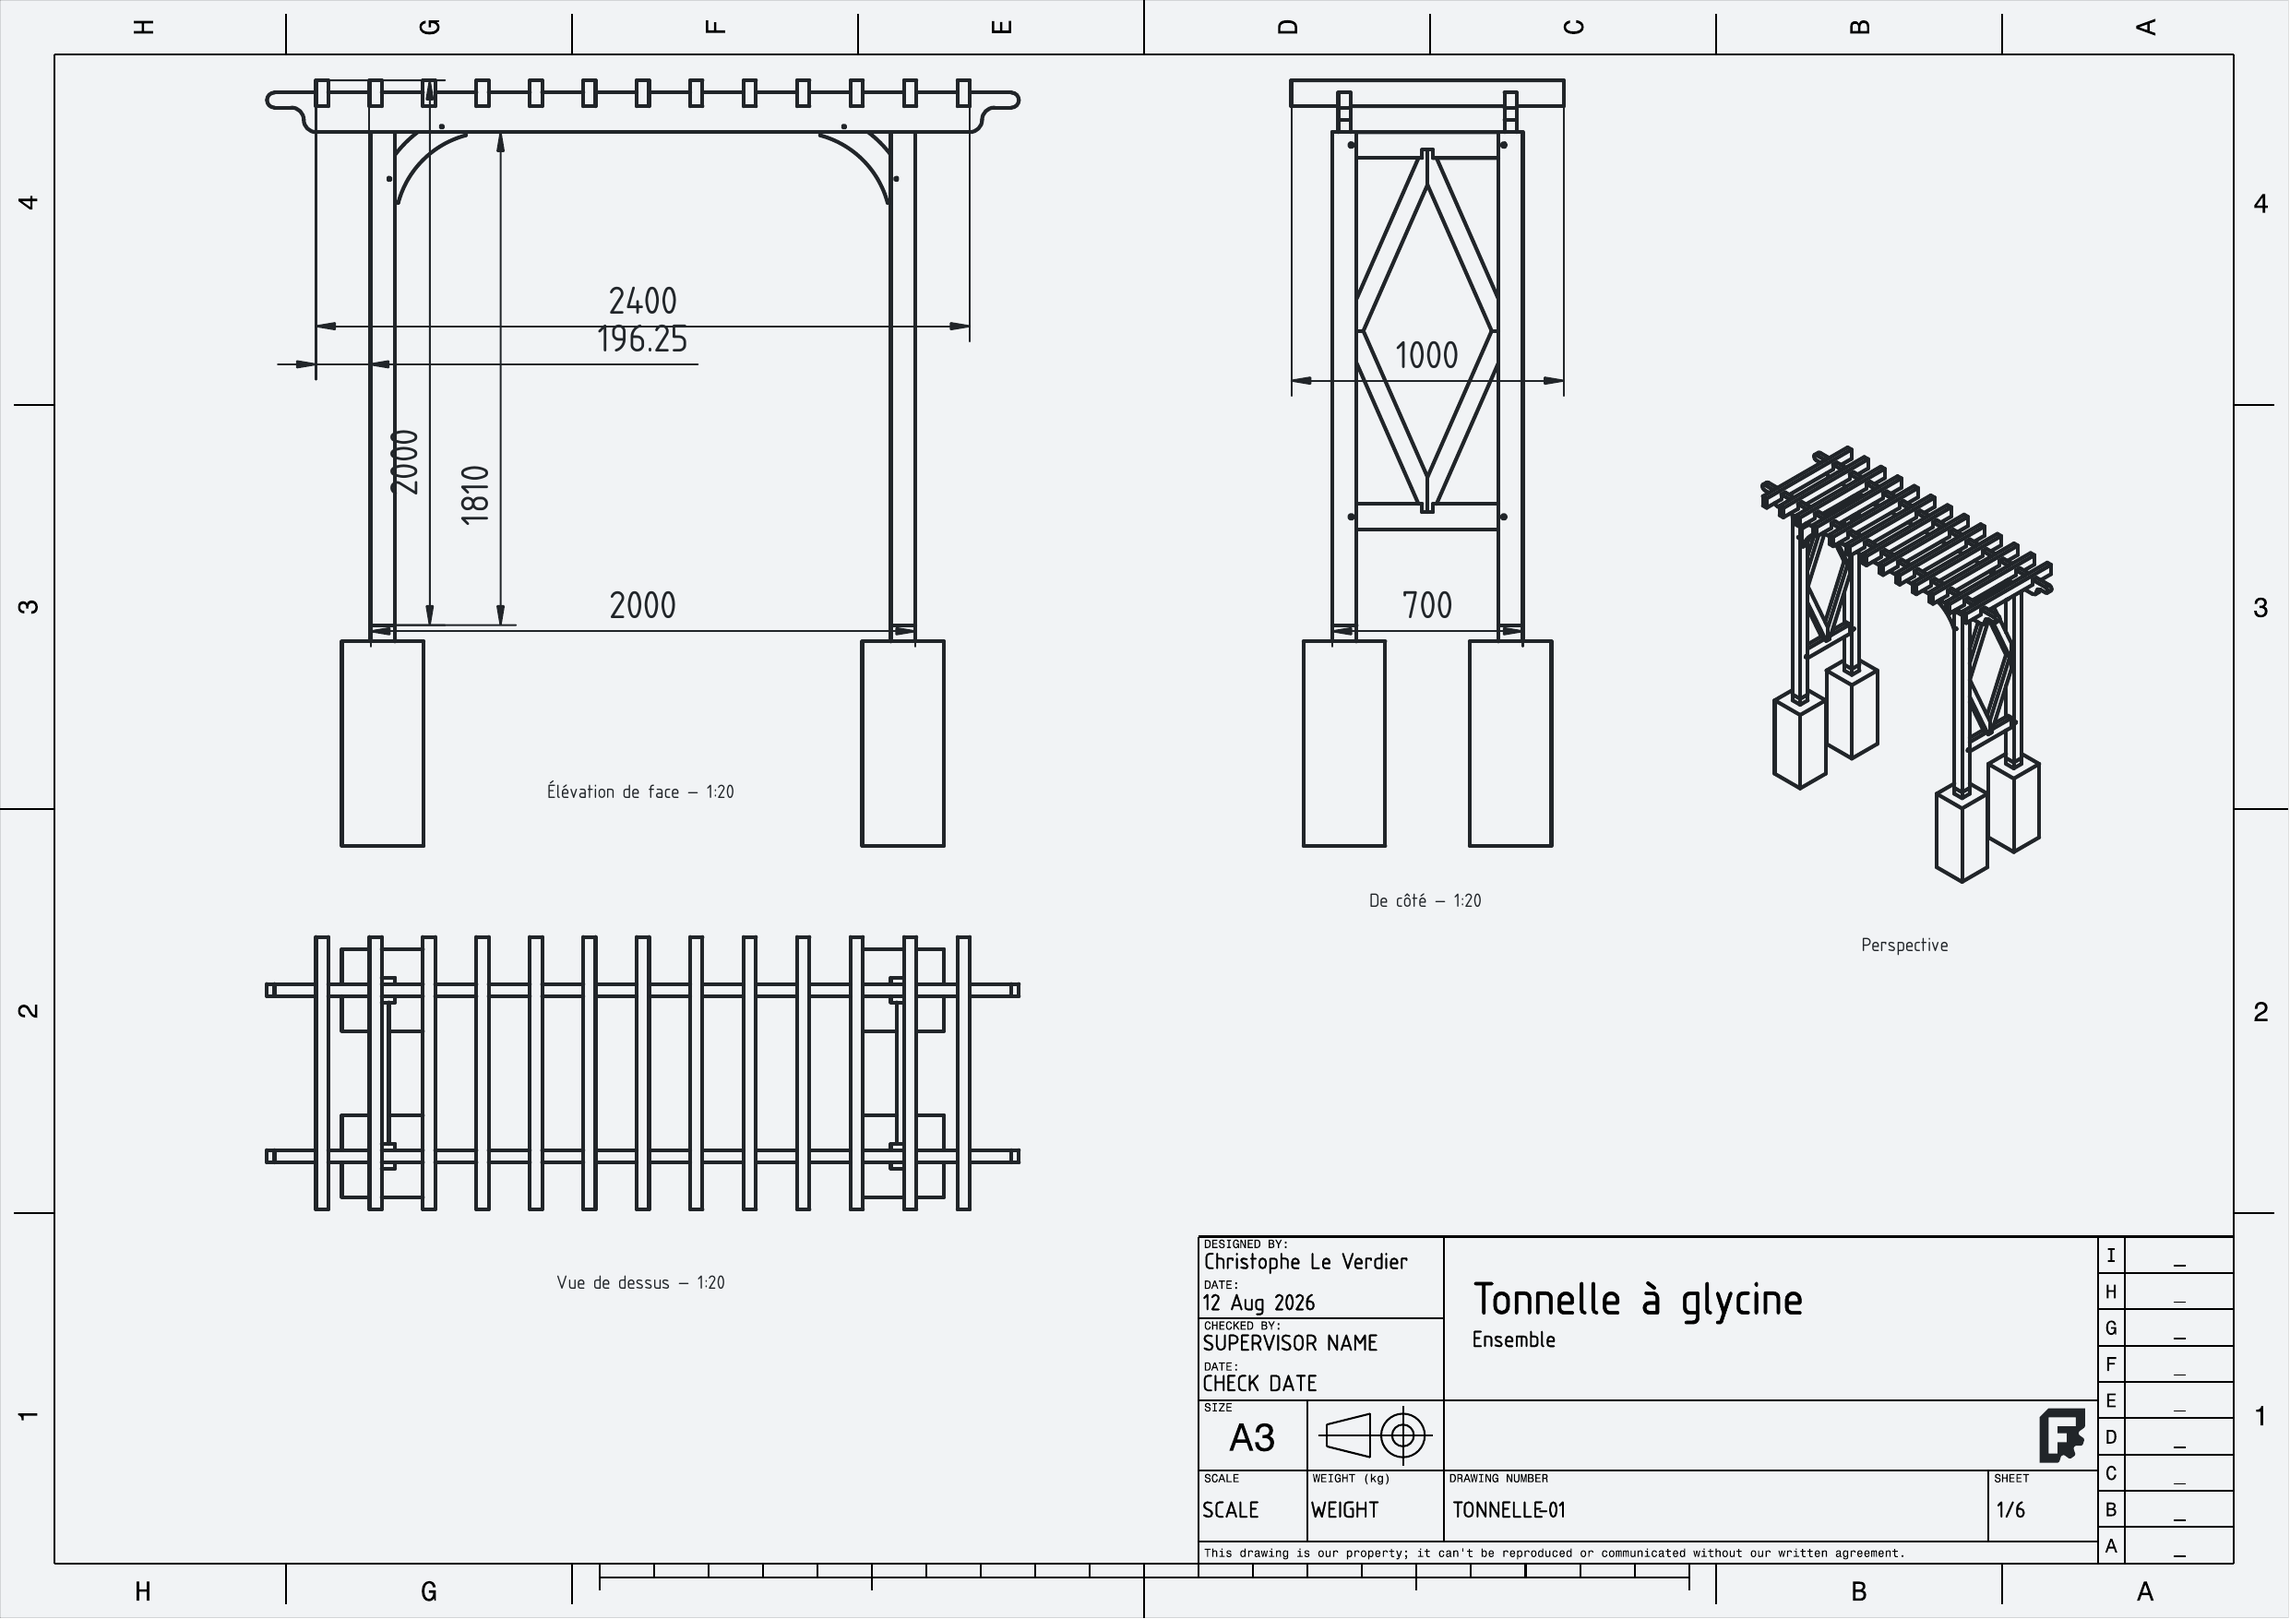
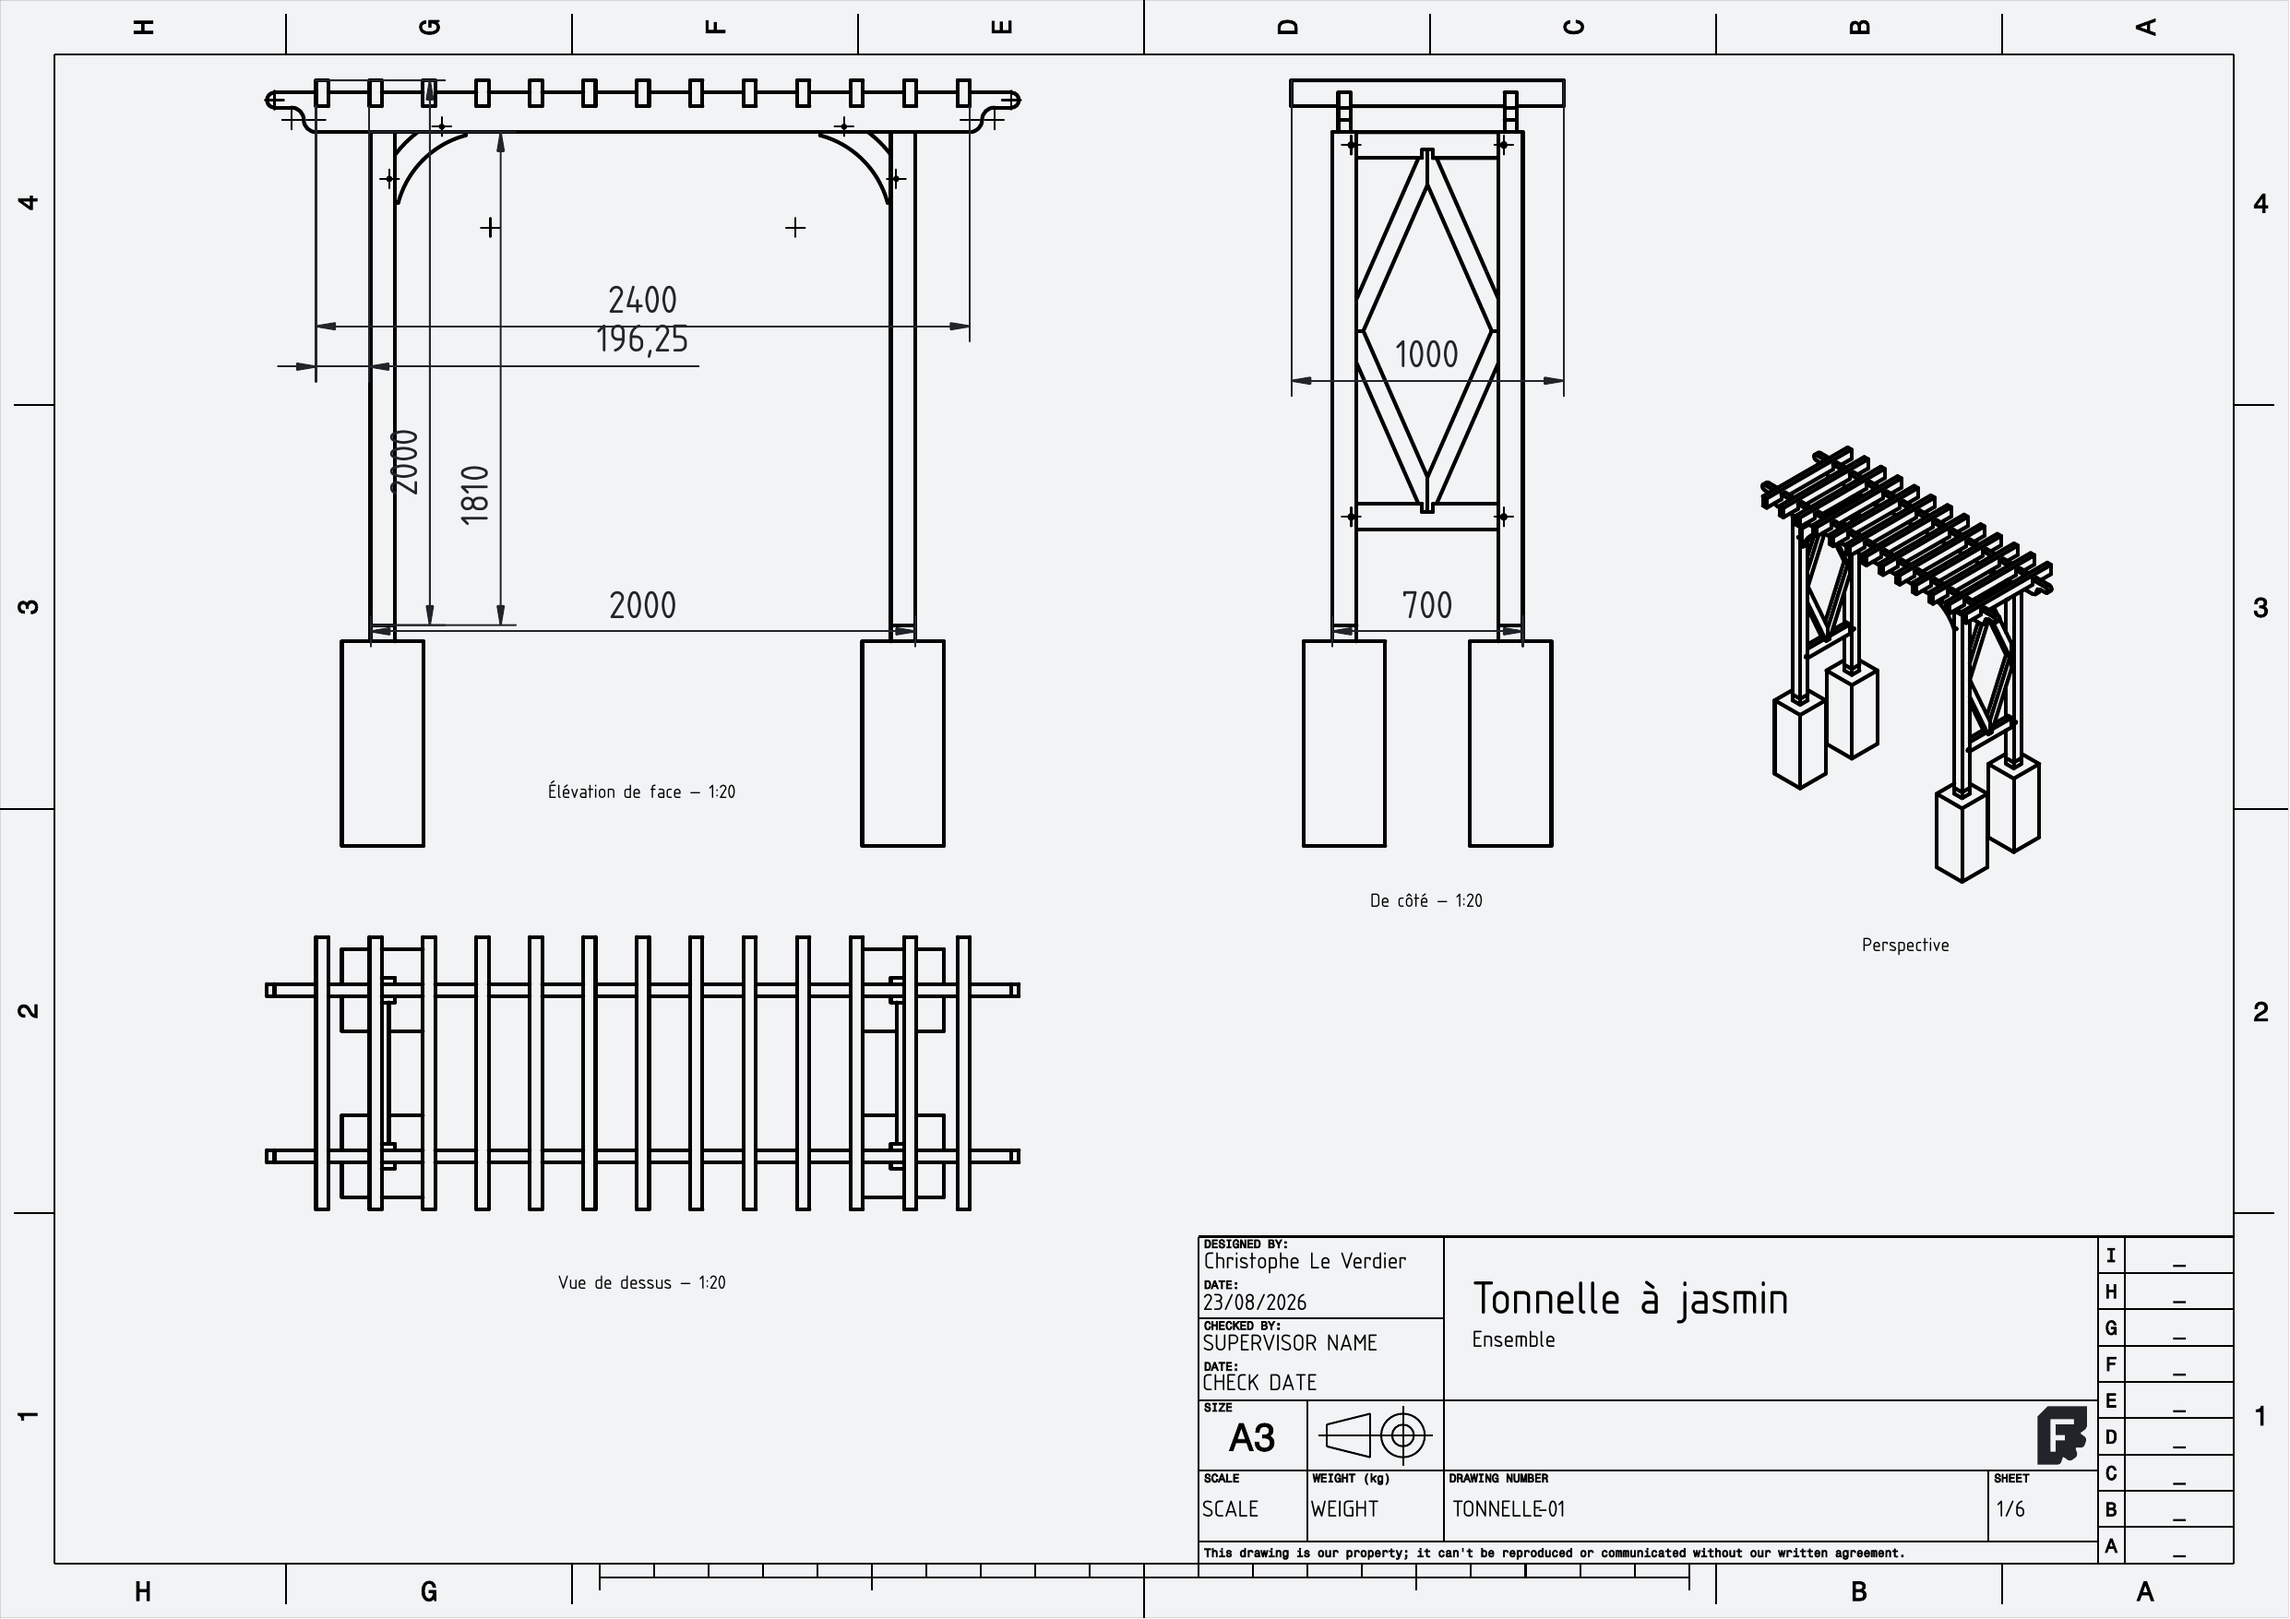
Le projet tonnelle est renomme, le site suit
~/Projets/realisations/tonnelle-glycine s'appelle desormais
tonnelle-jasmin : les trois chemins du site (chemins.py, reprendre_plans,
rendre_3d) y pointent, et la planche d'ensemble a ete reprise — son
cartouche titre maintenant « Tonnelle a jasmin », et elle porte au passage
les corrections de mise en page restees non publiees depuis le 12/08.

diff --git a/site/outils/reprendre_plans.py b/site/outils/reprendre_plans.py
@@ -58,7 +58,7 @@ PLANCHES = [
      Path.home() / 'Projets' / 'realisations' / 'meuble-balais' / 'Plan_Ensemble.pdf',
      1, "élévations, dessus, perspective et tableau des cotes"),
     ('plan-tonnelle-ensemble',
-     Path.home() / 'Projets' / 'realisations' / 'tonnelle-glycine' / 'docs' / 'plans.pdf',
+     Path.home() / 'Projets' / 'realisations' / 'tonnelle-jasmin' / 'docs' / 'plans.pdf',
      1, "élévation de face, vue de dessus, côté et perspective"),
     # La dust shoe sort CINQ planches ; on en reprend deux — celle qui
     # raconte le montage, et celle de la pièce qui explique tout le reste.

diff --git a/site/chemins.py b/site/chemins.py
@@ -40,7 +40,7 @@ LASER_IMG = LASER_ATELIER / 'docs' / 'manuel_img'  # les 22 panneaux
 
 # Les projets d'atelier dont les cotes vivent dans le tableur de leur
 # document FreeCAD — lues par valeurs_fcstd, sans que FreeCAD tourne.
-TONNELLE_FCSTD = (PROJETS / 'realisations' / 'tonnelle-glycine' / 'Tonnelle.FCStd')
+TONNELLE_FCSTD = (PROJETS / 'realisations' / 'tonnelle-jasmin' / 'Tonnelle.FCStd')
 MEUBLE_FCSTD = (PROJETS / 'realisations' / 'meuble-balais' / 'MeubleABalais.FCStd')
 DUST_SHOE = PROJETS / 'machine' / 'dust-shoe'
 DUST_SHOE_PARAMS = DUST_SHOE / 'fcstd' / 'ParametresV2.FCStd'   # le tableur v2

diff --git a/site/outils/rendre_3d.py b/site/outils/rendre_3d.py
@@ -56,7 +56,7 @@ LARGEUR, HAUTEUR = 1600, 1200
 # illustrée des trois. Mieux vaut deux images justes qu'une troisième vide.
 MODELES = [
     ('vue3d-tonnelle',
-     Path.home() / 'Projets/realisations/tonnelle-glycine/Tonnelle.FCStd',
+     Path.home() / 'Projets/realisations/tonnelle-jasmin/Tonnelle.FCStd',
      "la tonnelle montée, poteaux, sablières, chevrons et plots"),
     ('vue3d-meuble',
      Path.home() / 'Projets/realisations/meuble-balais/MeubleABalais.FCStd',
